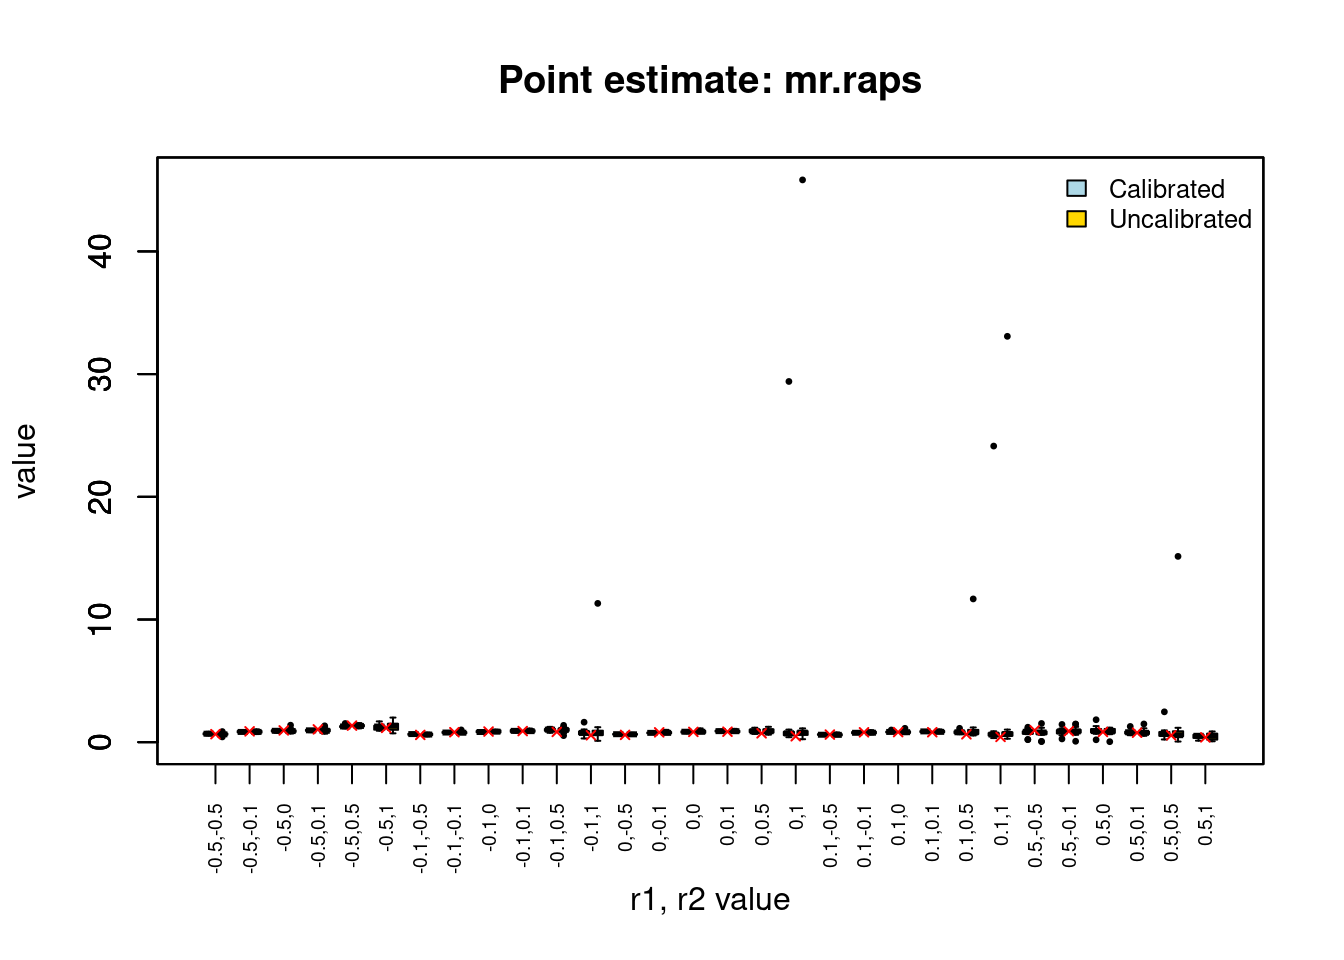
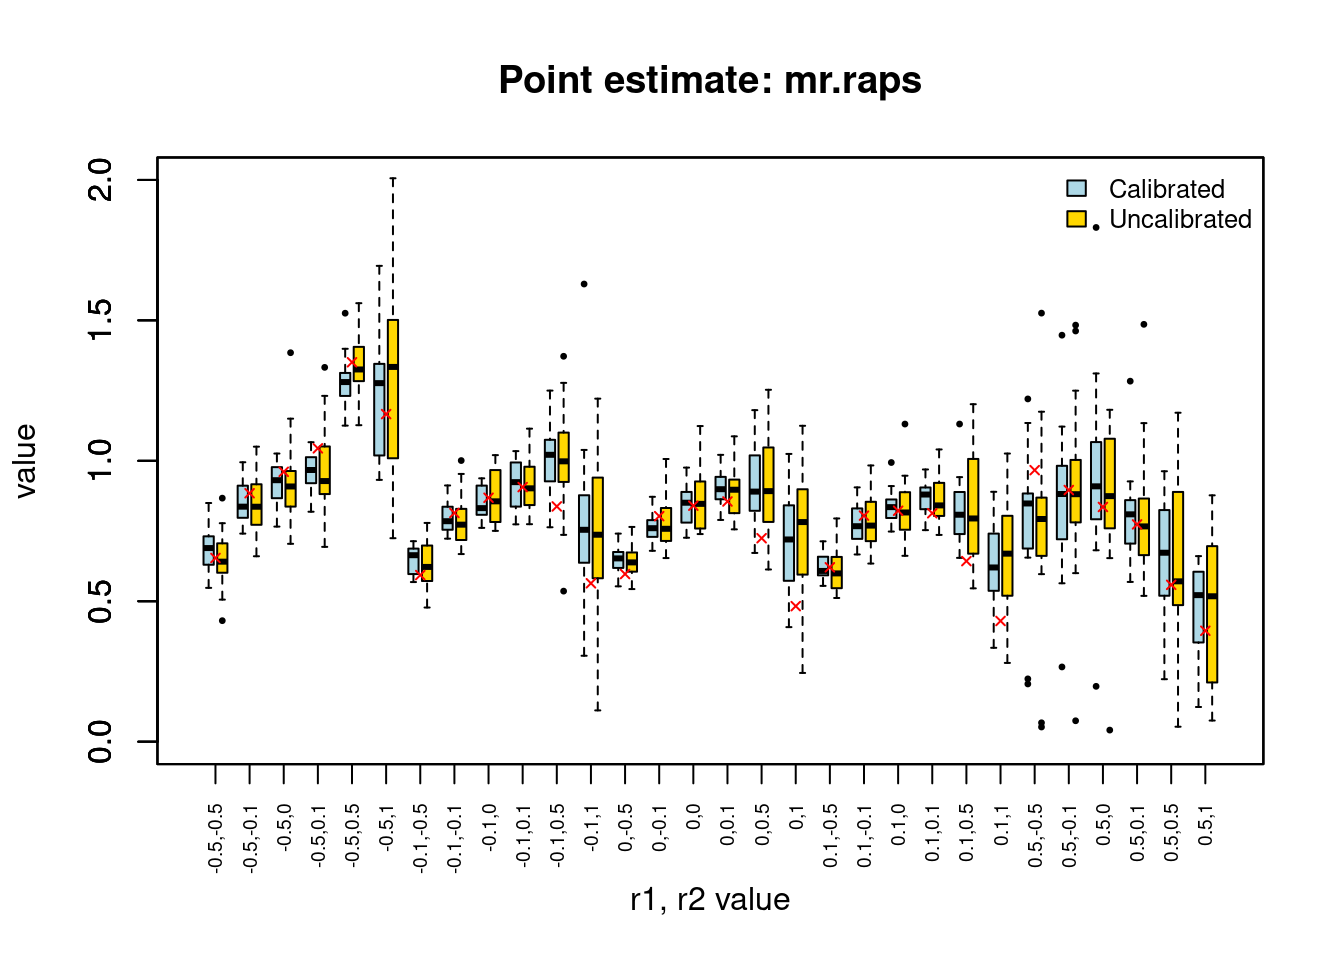
Build site.

diff --git a/docs/mr_logistic_trio.html b/docs/mr_logistic_trio.html
@@ -392,7 +392,7 @@ aria-hidden="true"></span> </a>
 <div class="tab-content">
 <div id="summary" class="tab-pane fade in active">
 <p>
-<strong>Last updated:</strong> 2024-03-28
+<strong>Last updated:</strong> 2024-03-29
 </p>
 <p>
 <strong>Checks:</strong> <span
@@ -549,15 +549,15 @@ data/logistic_mr_estimate.RData
 <div class="panel panel-default">
 <div class="panel-heading">
 <p class="panel-title">
-<a data-toggle="collapse" data-parent="#workflowr-checks" href="#strongRepositoryversionstrongahrefhttpsgithubcomyunqiyang0215simulationcalibratedmrtree9e53538fee6d46695221f796fb18cf9e3d60ab86targetblank9e53538a">
+<a data-toggle="collapse" data-parent="#workflowr-checks" href="#strongRepositoryversionstrongahrefhttpsgithubcomyunqiyang0215simulationcalibratedmrtreea7304451dfe984ea4ff0cc0020972d22842b6e07targetblanka730445a">
 <span class="glyphicon glyphicon-ok text-success"
 aria-hidden="true"></span> <strong>Repository version:</strong>
-<a href="https://github.com/yunqiyang0215/simulation-calibrated-mr/tree/9e53538fee6d46695221f796fb18cf9e3d60ab86" target="_blank">9e53538</a>
+<a href="https://github.com/yunqiyang0215/simulation-calibrated-mr/tree/a7304451dfe984ea4ff0cc0020972d22842b6e07" target="_blank">a730445</a>
 </a>
 </p>
 </div>
 <div
[2 lines of base64/hex data omitted]
 class="panel-collapse collapse">
 <div class="panel-body">
 <p>
@@ -567,7 +567,7 @@ reproducibility.
 </p>
 <p>
 The results in this page were generated with repository version
-<a href="https://github.com/yunqiyang0215/simulation-calibrated-mr/tree/9e53538fee6d46695221f796fb18cf9e3d60ab86" target="_blank">9e53538</a>.
+<a href="https://github.com/yunqiyang0215/simulation-calibrated-mr/tree/a7304451dfe984ea4ff0cc0020972d22842b6e07" target="_blank">a730445</a>.
 See the <em>Past versions</em> tab to see a history of the changes made
 to the R Markdown and HTML files.
 </p>
@@ -634,6 +634,40 @@ Message
 </tr>
 </thead>
 <tbody>
+<tr>
+<td>
+Rmd
+</td>
+<td>
+<a href="https://github.com/yunqiyang0215/simulation-calibrated-mr/blob/a7304451dfe984ea4ff0cc0020972d22842b6e07/analysis/mr_logistic_trio.Rmd" target="_blank">a730445</a>
+</td>
+<td>
+yunqi yang
+</td>
+<td>
+2024-03-29
+</td>
+<td>
+wflow_publish("analysis/mr_logistic_trio.Rmd")
+</td>
+</tr>
+<tr>
+<td>
+html
+</td>
+<td>
+<a href="https://rawcdn.githack.com/yunqiyang0215/simulation-calibrated-mr/f01a76cef0004ccf119ed60d330922643bcca4bd/docs/mr_logistic_trio.html" target="_blank">f01a76c</a>
+</td>
+<td>
+yunqi yang
+</td>
+<td>
+2024-03-28
+</td>
+<td>
+Build site.
+</td>
+</tr>
 <tr>
 <td>
 Rmd
@@ -763,6 +797,17 @@ Date
 </tr>
 </thead>
 <tbody>
+<tr>
+<td>
+<a href="https://github.com/yunqiyang0215/simulation-calibrated-mr/blob/f01a76cef0004ccf119ed60d330922643bcca4bd/docs/figure/mr_logistic_trio.Rmd/unnamed-chunk-4-1.png" target="_blank">f01a76c</a>
+</td>
+<td>
+yunqi yang
+</td>
+<td>
+2024-03-28
+</td>
+</tr>
 <tr>
 <td>
 <a href="https://github.com/yunqiyang0215/simulation-calibrated-mr/blob/30589d7ba66af50b3b74c453cdfce1c65a37339d/docs/figure/mr_logistic_trio.Rmd/unnamed-chunk-4-1.png" target="_blank">30589d7</a>
@@ -923,7 +968,7 @@ for(i in 1:length(r1)) {
 }</code></pre>
 <div id="boxplot-for-point-estimate-1" class="section level4">
 <h4>(1) Boxplot for point estimate</h4>
-<pre class="r"><code>plot(1, type = &quot;n&quot;, xlab = &quot;r1, r2 value&quot;, ylab = &quot;value&quot;, xlim = c(0.5, length(levels(aggregated_data$combination)) + 0.5), ylim = range(aggregated_data[, c(&quot;cali_point&quot;, &quot;adj_uncali_point&quot;)], na.rm = TRUE), xaxt = &quot;n&quot;, main = &quot;Point estimate: mr.raps&quot;)
+<pre class="r"><code>plot(1, type = &quot;n&quot;, xlab = &quot;r1, r2 value&quot;, ylab = &quot;value&quot;, xlim = c(0.5, length(levels(aggregated_data$combination)) + 0.5), ylim = c(0, 2), xaxt = &quot;n&quot;, main = &quot;Point estimate: mr.raps&quot;)
 axis(1, at = 1:length(levels(aggregated_data$combination)), labels = levels(aggregated_data$combination), las = 2, cex.axis = 0.6)
 
 boxplot(cali_point ~ combination, data = aggregated_data, at = 1:length(levels(aggregated_data$combination)) - 0.2, 
@@ -957,6 +1002,17 @@ Date
 </tr>
 </thead>
 <tbody>
+<tr>
+<td>
+<a href="https://github.com/yunqiyang0215/simulation-calibrated-mr/blob/f01a76cef0004ccf119ed60d330922643bcca4bd/docs/figure/mr_logistic_trio.Rmd/unnamed-chunk-9-1.png" target="_blank">f01a76c</a>
+</td>
+<td>
+yunqi yang
+</td>
+<td>
+2024-03-28
+</td>
+</tr>
 <tr>
 <td>
 <a href="https://github.com/yunqiyang0215/simulation-calibrated-mr/blob/30589d7ba66af50b3b74c453cdfce1c65a37339d/docs/figure/mr_logistic_trio.Rmd/unnamed-chunk-9-1.png" target="_blank">30589d7</a>
@@ -1026,58 +1082,13 @@ yunqi yang
 </table>
 </div>
 </div>
-</div>
-<div id="boxplot-for-variance-reduction-1" class="section level4">
-<h4>(3) Boxplot for variance reduction</h4>
-<pre class="r"><code>compute_var &lt;- function(g1, g2, x.var, y.var, beta){
-  res1 = (g1^2*y.var + g2^2*x.var + x.var*y.var)/(beta^2*x.var + y.var)^2
-  res2 = (g1^2*y.var + g2^2*x.var)/(beta^2*x.var + y.var)^2
-  return(list(V1 = sum(res1), V2 = sum(res2)))
-}</code></pre>
-<pre class="r"><code>res = readRDS(&quot;/project2/mstephens/yunqiyang/calibrated_mr/mr_dsc20230727/res.rds&quot;)</code></pre>
-<pre class="r"><code>r1 = unique(res$sim_data.r1)
-r2 = unique(res$sim_data.r2)
-set.seed(1)
-p = 10
-b = matrix(rnorm(p, sd = 1), ncol = 1, nrow = p)
-bp = matrix(rnorm(p, sd = 1), ncol = 1, nrow = p)
-beta = 1</code></pre>
-<pre class="r"><code>var_mr.raps &lt;- data.frame(mr.var.cali = numeric(), mr.var.raw = numeric(), combination = factor())
-
-for(i in 1:length(r1)) {
-  for(j in 1:length(r2)) {
-    
-    indx = which(res$sim_data.r1 == r1[i] &amp; res$sim_data.r2 == r2[j])
-    sub_res = res$fit.sumstat[indx]
-    combined_data = do.call(cbind, sub_res)
-    
-    Y1.cali.var = apply(combined_data[, which(colnames(combined_data) == &quot;Y1.cali.var&quot;)], 1, mean)
-    Y1.raw.var = apply(combined_data[, which(colnames(combined_data) == &quot;Y1.var.raw&quot;)], 1, mean)
-    Y2.cali.var = apply(combined_data[, which(colnames(combined_data) == &quot;Y2.cali.var&quot;)], 1, mean)
-    Y2.raw.var = apply(combined_data[, which(colnames(combined_data) == &quot;Y2.var.raw&quot;)], 1, mean)
-    
-    # Compute g1, g2
-    g1 = bp*r1[i] + b
-    g2 = beta*(b+r1[i]*bp) + r2[j]*bp
-    
-    res.cali = compute_var(g1, g2, x.var = Y1.cali.var, y.var = Y2.cali.var, beta)
-    res.raw = compute_var(g1, g2, x.var = Y1.raw.var, y.var = Y2.raw.var, beta)
-    mr.var.cali = res.cali$V1/(res.cali$V2^2)
-    mr.var.raw = res.raw$V1/(res.raw$V2^2)
-    
-    label &lt;- paste(r1[i], r2[j], sep = &quot;,&quot;)
-    var_mr.raps &lt;- rbind(var_mr.raps, data.frame(mr.var.cali = mr.var.cali, 
-                                                         mr.var.raw = mr.var.raw,
-                                                         combination = factor(label)))
-  }
-}</code></pre>
 <pre class="r"><code># Calculate mean variance reduction by combination
 emp_var_reduction &lt;- aggregate(emp_var_reduction ~ combination, data = aggregated_data, FUN = mean)
 
 # Plotting setup
 plot(1, type = &quot;n&quot;, xlab = &quot;r1, r2 value&quot;, ylab = &quot;Variance Reduction&quot;, 
      xlim = c(0.5, length(levels(aggregated_data$combination)) + 0.5), 
-     ylim = c(0, 0.83), xaxt = &quot;n&quot;, main = &quot;Variance Reduction&quot;)
+     ylim = c(-1.05, 1), xaxt = &quot;n&quot;, main = &quot;Variance Reduction&quot;)
 
 # Add boxplot for variance reduction
 boxplot(var_reduction ~ combination, data = aggregated_data, 
@@ -1088,49 +1099,8 @@ boxplot(var_reduction ~ combination, data = aggregated_data,
 # Add custom axis labels
 axis(1, at = 1:length(levels(aggregated_data$combination)), labels = levels(aggregated_data$combination), las = 2, cex.axis = 0.6)
 
-points(1:length(levels(emp_var_reduction$combination)) - 0.2, emp_var_reduction$emp_var_reduction, pch = 4, col = &quot;red&quot;, cex = 0.5)
-
-points(1:length(levels(emp_var_reduction$combination)) - 0.2, (var_mr.raps$mr.var.raw - var_mr.raps$mr.var.cali)/var_mr.raps$mr.var.raw, pch = 4, col = &quot;gold&quot;, cex = 0.5)
-
-legend(&quot;topright&quot;, legend = c(&quot;theoretical&quot;, &quot;empirical&quot;), fill = c(&quot;gold&quot;, &quot;red&quot;), bty = &quot;n&quot;, cex = 0.8)</code></pre>
-<p><img src="figure/mr_logistic_trio.Rmd/unnamed-chunk-16-1.png" width="672" style="display: block; margin: auto;" /></p>
-<p>
-<button type="button" class="btn btn-default btn-xs btn-workflowr btn-workflowr-fig" data-toggle="collapse" data-target="#fig-unnamed-chunk-16-1">
-Past versions of unnamed-chunk-16-1.png
-</button>
-</p>
-<div id="fig-unnamed-chunk-16-1" class="collapse">
-<div class="table-responsive">
-<table class="table table-condensed table-hover">
-<thead>
-<tr>
-<th>
-Version
-</th>
-<th>
-Author
-</th>
-<th>
-Date
-</th>
-</tr>
-</thead>
-<tbody>
-<tr>
-<td>
-<a href="https://github.com/yunqiyang0215/simulation-calibrated-mr/blob/30589d7ba66af50b3b74c453cdfce1c65a37339d/docs/figure/mr_logistic_trio.Rmd/unnamed-chunk-16-1.png" target="_blank">30589d7</a>
-</td>
-<td>
-yunqi yang
-</td>
-<td>
-2024-03-21
-</td>
-</tr>
-</tbody>
-</table>
-</div>
-</div>
+points(1:length(levels(emp_var_reduction$combination)) - 0.2, emp_var_reduction$emp_var_reduction, pch = 4, col = &quot;red&quot;, cex = 0.5)</code></pre>
+<p><img src="figure/mr_logistic_trio.Rmd/unnamed-chunk-12-1.png" width="672" style="display: block; margin: auto;" /></p>
 <br>
 <p>
 <button type="button" class="btn btn-default btn-workflowr btn-workflowr-sessioninfo" data-toggle="collapse" data-target="#workflowr-sessioninfo" style="display: block;">
